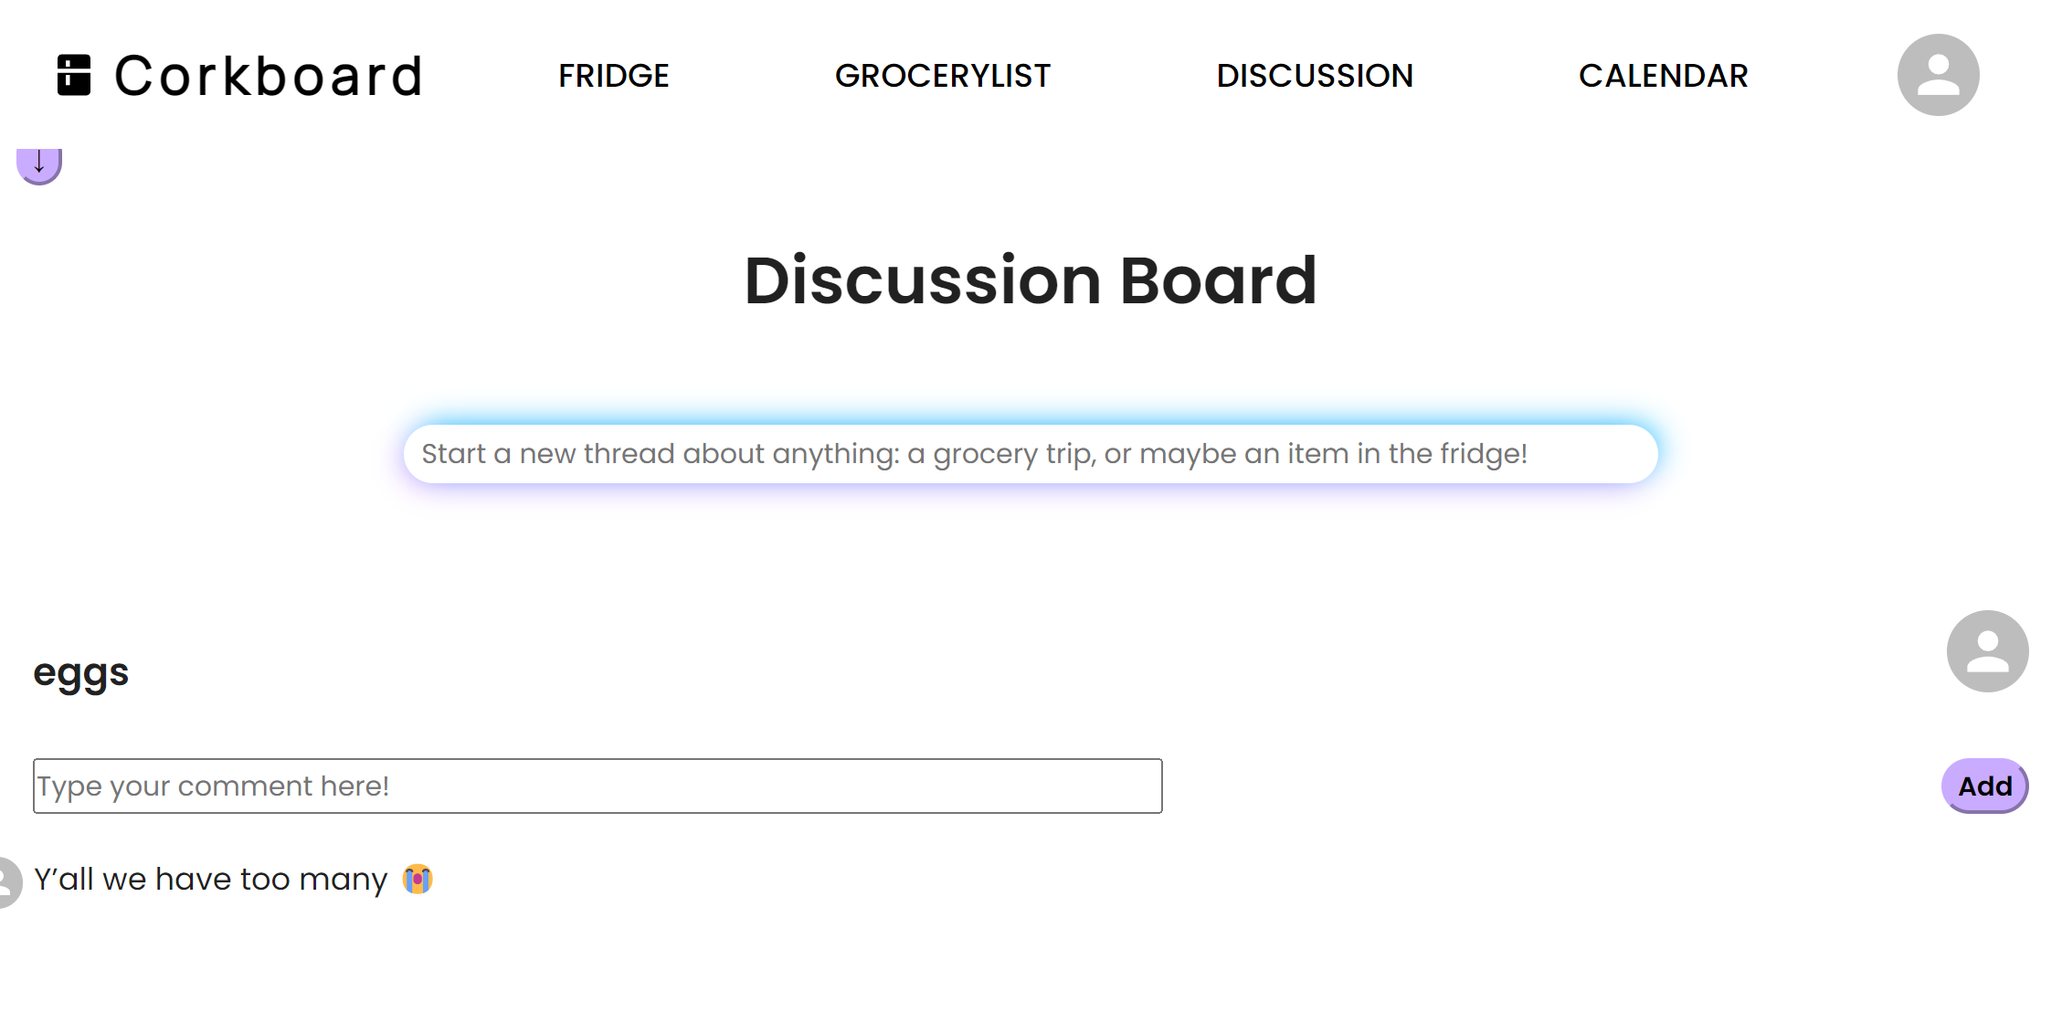
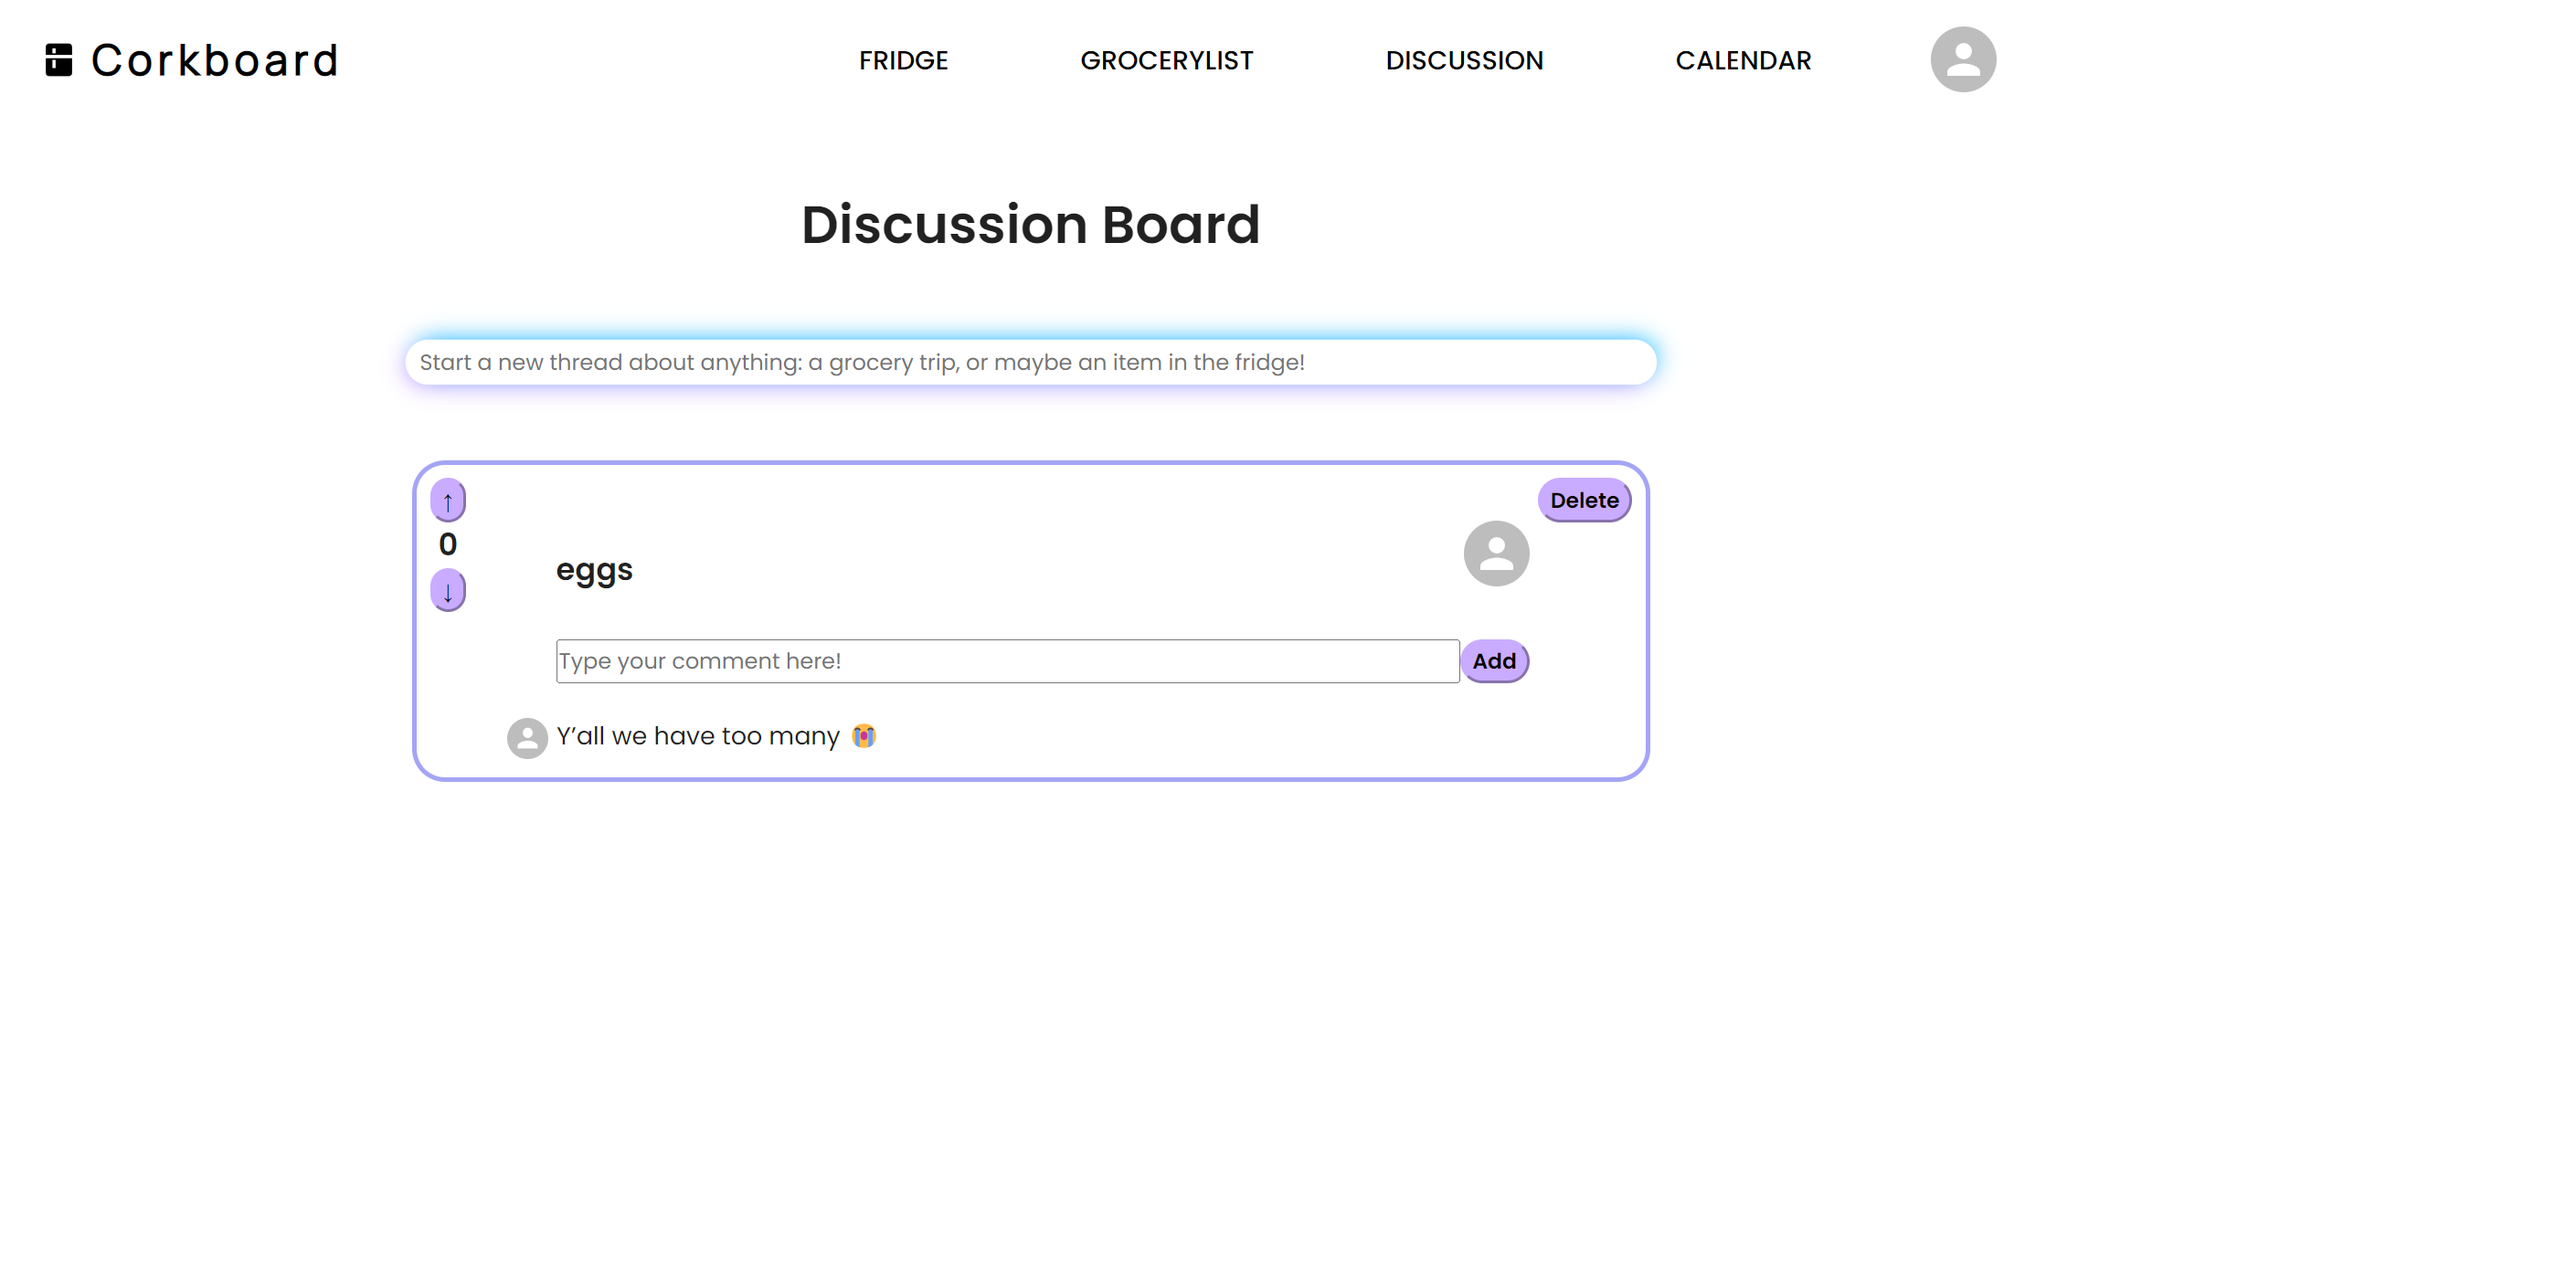
Restore heading styles that were commented out in App.css

diff --git a/src/frontend/components/LandingPage.jsx b/src/frontend/components/LandingPage.jsx
@@ -78,7 +78,7 @@ function LandingPage() {
         <Typography variant="h4" fontWeight='bold' component="h1" align='center'>
           Ever buy eggs at Costco on the same day that your roommate buys two cartons at Trader Joe’s?
         </Typography>
-        <Box maxWidth='40vw' sx={{ backgroundColor: 'white', display: 'flex', alignItems: 'center', justifyContent: 'center', flexDirection: 'column' }}>
+        <Box maxWidth='50vw' sx={{ backgroundColor: 'white', display: 'flex', alignItems: 'center', justifyContent: 'center', flexDirection: 'column' }}>
         <Typography variant="h4" component="h2" align='center' sx={{ marginTop: '50px', marginBottom: '20px' }}>
           Then Corkboard is for you and your roommates!
         </Typography>

diff --git a/src/frontend/styles/App.css b/src/frontend/styles/App.css
@@ -107,12 +107,12 @@ h1 {
   padding: 40px 0px 0px 0px;
 }
 
-/* h2 {
+h2 {
   text-align: right;
   font-size: 20px;
   font-weight: 400;
   padding: 0px 30px 30px 30px;
-} */
+}
 
 .dialog-div {
   padding: 5%
@@ -146,7 +146,7 @@ h1 {
     -3px 3px 15px #da90ff;
 }
 
-/* h3 {
+h3 {
   display: flex;
   position: relative;
   padding: 2px 6px 6px 20px;
@@ -157,7 +157,7 @@ h1 {
   border: 3px solid rgb(164, 165, 245);
   border-radius: 20px;
   list-style-type: none;
-} */
+}
 
 #avatar-container {
   display: flex;
